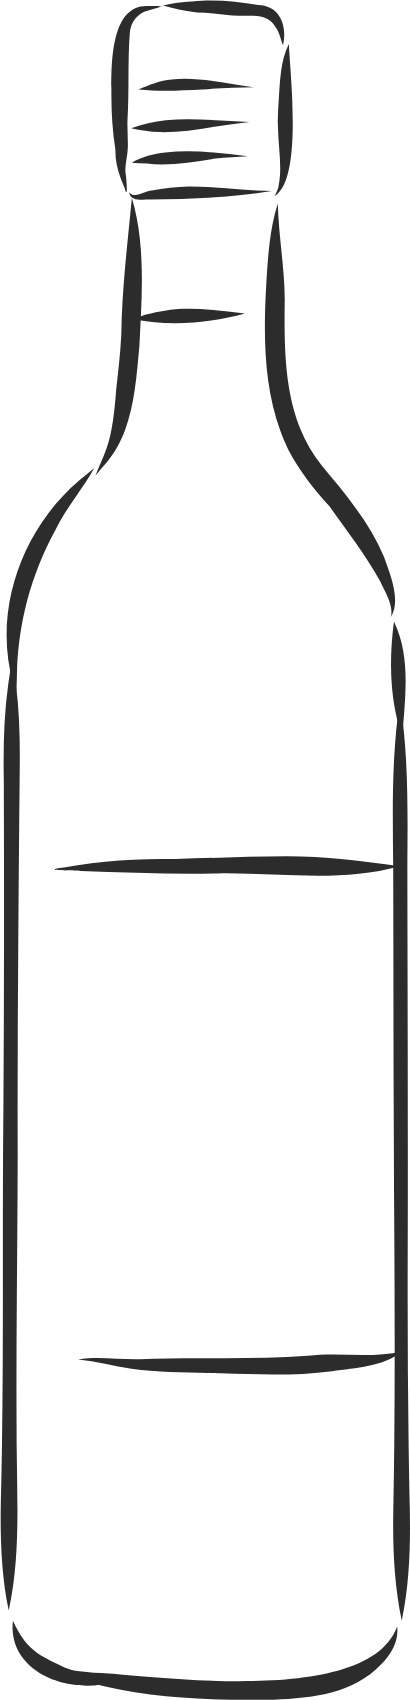
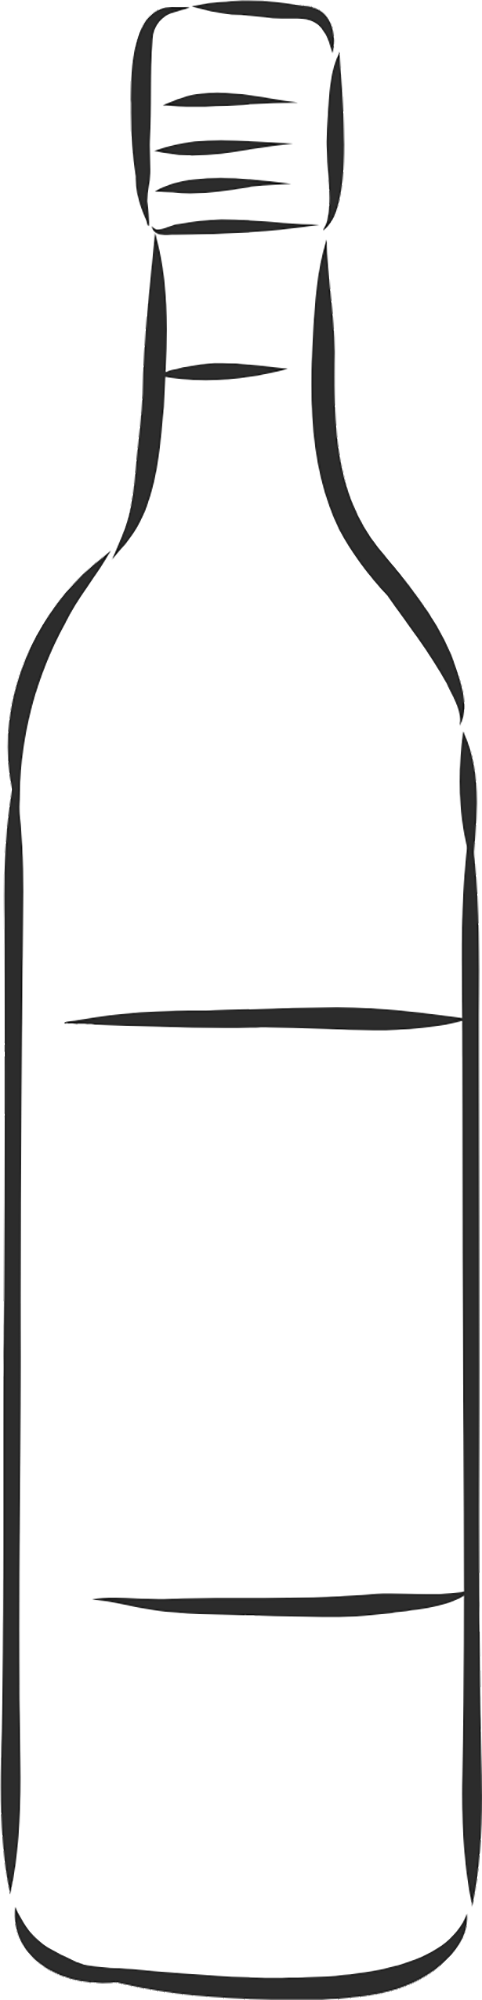
Adds wine bottle images and updates Wine Card

diff --git a/src/components/WineCard.tsx b/src/components/WineCard.tsx
@@ -1,14 +1,31 @@
 // components/WineCard.tsx
 import { Card } from 'react-bootstrap'
 import { WineDTO } from '../types/WineDTO'
+import redBottle from '../assets/red_wine_bottle.png'
+import whiteBottle from '../assets/white_wine_bottle.png'
+import roseBottle from '../assets/rose_wine_bottle.png'
 
 interface WineCardProps {
   wine: WineDTO
 }
 
+const getBottleImage = (color: string) => {
+  switch (color.toUpperCase()) {
+    case 'RED':
+      return redBottle
+    case 'WHITE':
+      return whiteBottle
+    case 'ROSE':
+    case 'ROSÉ':
+      return roseBottle
+    default:
+      return ''
+  }
+}
+
 const WineCard = (props: WineCardProps) => {
   return (
-    <Card className="wine-card h-100">
+    <Card className="wine-card h-100 position-relative overflow-visible">
       {props.wine.imageUrl && (
         <Card.Img
           variant="top"
@@ -17,22 +34,36 @@ const WineCard = (props: WineCardProps) => {
           style={{ height: '200px', objectFit: 'cover' }}
         />
       )}
-      <Card.Body>
-        <Card.Title style={{ color: 'darkred' }}>{props.wine.name}</Card.Title>
-        <Card.Subtitle className="mb-2 text-muted">
-          {props.wine.producer} – {props.wine.vintage}
-        </Card.Subtitle>
-        <Card.Text className="mb-1">
-          <strong>Country:</strong> {props.wine.country}
-        </Card.Text>
-        <Card.Text className="mb-1">
-          <strong>Color:</strong> {props.wine.color.toLowerCase()}
-        </Card.Text>
-        {props.wine.grapeVarieties?.length > 0 && (
+      <Card.Body className="d-flex align-items-center position-relative pt-4">
+        {/* Bottle image */}
+        <div className="wine-bottle-container">
+          <img
+            src={getBottleImage(props.wine.color)}
+            alt={`${props.wine.color} wine bottle`}
+            className="wine-bottle-img"
+          />
+        </div>
+
+        {/* Text content */}
+        <div className="flex-grow-1 ms-5">
+          <Card.Title style={{ color: 'darkred' }}>
+            {props.wine.name}
+          </Card.Title>
+          <Card.Subtitle className="mb-2 text-muted">
+            {props.wine.producer} – {props.wine.vintage}
+          </Card.Subtitle>
           <Card.Text className="mb-1">
-            <strong>Grapes:</strong> {props.wine.grapeVarieties.join(', ')}
+            <strong>Country:</strong> {props.wine.country}
           </Card.Text>
-        )}
+          <Card.Text className="mb-1">
+            <strong>Color:</strong> {props.wine.color.toLowerCase()}
+          </Card.Text>
+          {props.wine.grapeVarieties?.length > 0 && (
+            <Card.Text className="mb-1">
+              <strong>Grapes:</strong> {props.wine.grapeVarieties.join(', ')}
+            </Card.Text>
+          )}
+        </div>
       </Card.Body>
     </Card>
   )
